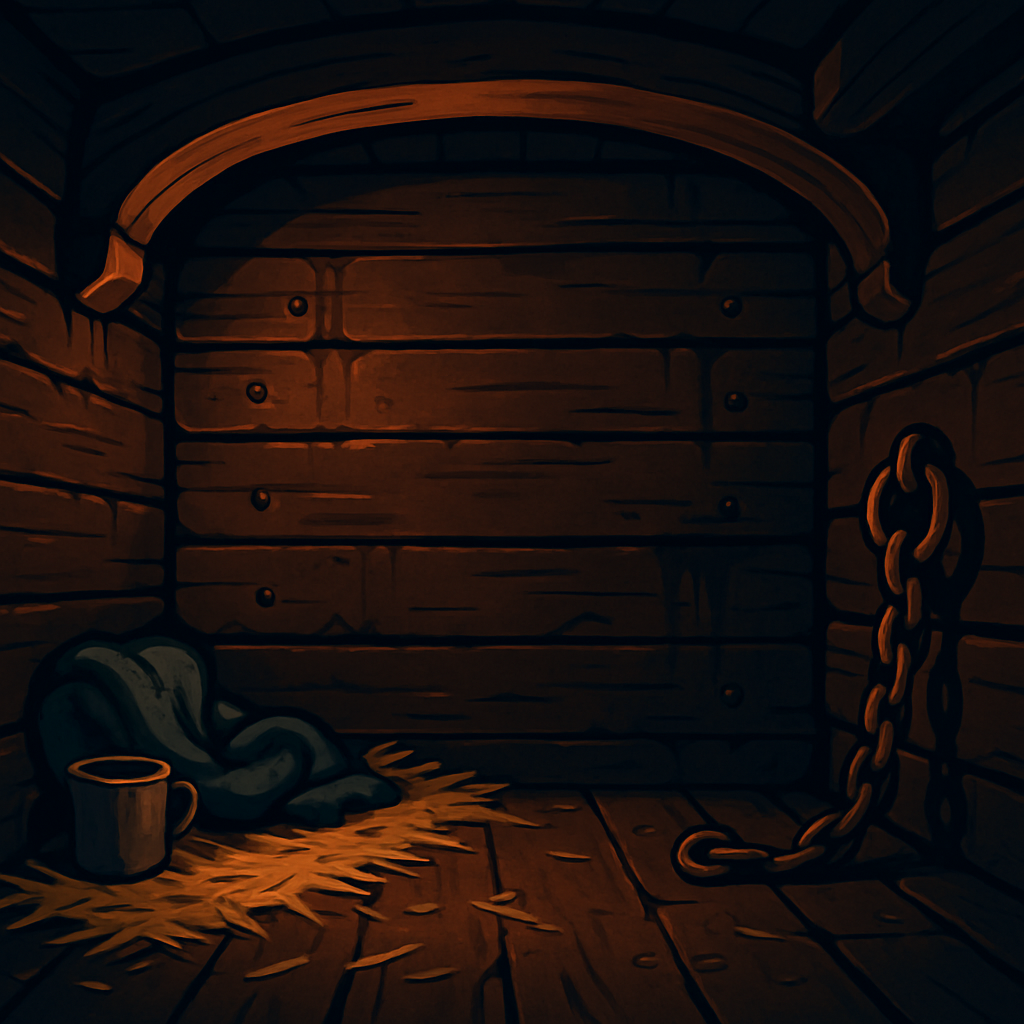
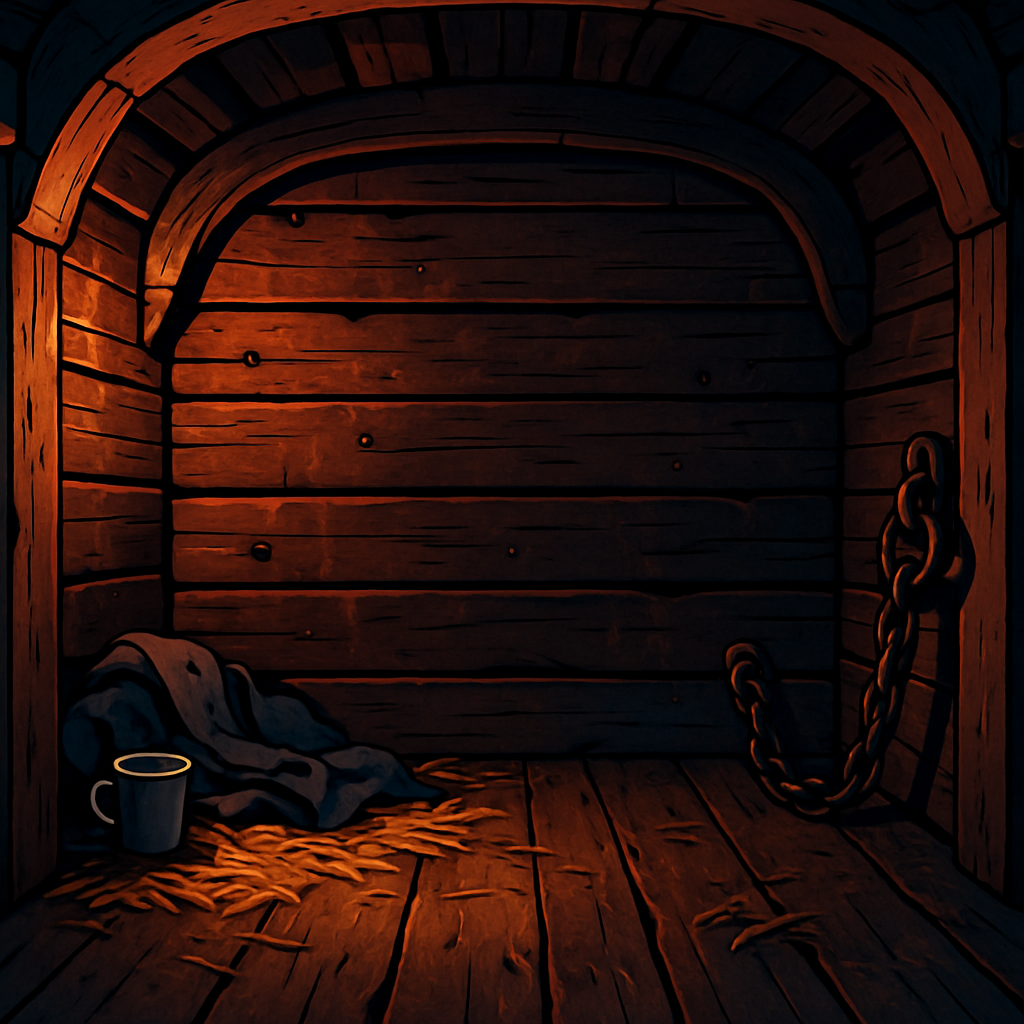
Brig: the room is timber now, and it can ask for you
Two things the last round left open.

THE ROOM ART had a band of brick across the top of the wall, which reads as a
cellar rather than as somewhere below a waterline. Redrawn with "every surface
is ship timber" made load-bearing in the prompt: planks, deck beams, a plank
floor. The reroll also replaced the brass lantern with a pale pewter one, which
instantly looked like a stone lamp in a wooden room, so that was redrawn too --
it is the thing lighting the scene and it has to look like the source of that
light. $0.16.

⚠ And --force quietly recreated bars.png, a 2MB file nothing loads: the iron is
CSS. The entry is deleted from the generator with a note saying why, because the
one time it WAS generated it came back as a horned ogre.

THE ALERT. A captured captain waits on deck for thirty minutes and is then gone
for good, and the only thing that knew was the brig itself -- a feature that can
only tell you something while you are already looking at it. The gun-deck
station carries a dot now when a man is waiting or a chart is ready.

⚠ NOT A NAV BADGE, AND THE DIFFERENCE IS THE BILL. A badge in site chrome that
reads a feature endpoint pays for that feature on every page, for every member,
forever -- see check:chrome and the cost note in CLAUDE.md. This is one extra
column folded into a query the sailing page already runs, owner-gated at the
query, for one person. check:chrome still passes at 23 components.
[…]

diff --git a/src/lib/marketplace/sailing.js b/src/lib/marketplace/sailing.js
@@ -18,7 +18,7 @@ import { getOwnedPieceIds, getOwnedSetIds, grantPiece } from "@/lib/marketplace/
 import { collectibleById } from "@/lib/marketplace/collectibles.js";
 import { avatarImageUrl } from "@/lib/marketplace/avatar-cosmetics.js";
 import { isOwner } from "@/lib/marketplace/owner.js";
-import { captainsOpenTo } from "@/lib/marketplace/captains.js";
+import { captainsOpenTo, OFFER_MINUTES } from "@/lib/marketplace/captains.js";
 import { AMMO, AMMO_LIST, ammoById, COMBAT_TRACKS, shipProfile, foeProfile,
          gunsFor, accuracyFor, rakeFor, hullHitsFor, initBattleState, resolveVolley, sanitizeAims,
          SAILS_MAX, GUN_HP, matchupOdds, hullGrade, foeAims, foePlanks, BATTLE_STATE_V,
@@ -1149,7 +1149,7 @@ function boardView(board) {
 // erase the entire feature for them. Callers that only want `.status`/`.level` can still omit it.
 // `baits` is handed in for the same reason gunDeck and the recipe shelf are: it is a pantry query and this
 // function is synchronous on purpose.
-function decorate(row, chestArt = {}, bonusWaves = 0, raidSetBonus = 0, angling = 0, sky = null, buyerId = null, collections = [], consumableArt = {}, gunDeck = null, pieces = [], hulls = null, marketDay = false, recipeShop = null, baits = [], baitCookable = [], deepFish = false, charts = 0) {
+function decorate(row, chestArt = {}, bonusWaves = 0, raidSetBonus = 0, angling = 0, sky = null, buyerId = null, collections = [], consumableArt = {}, gunDeck = null, pieces = [], hulls = null, marketDay = false, recipeShop = null, baits = [], baitCookable = [], deepFish = false, charts = 0, waiting = 0) {
     const speedLevel = row?.speed_level || 0;
     const fortuneLevel = row?.luck_level || 0; // Fortune is stored in the legacy luck_level column
     const rarityLevel = row?.rarity_level || 0;
@@ -1196,6 +1196,8 @@ function decorate(row, chestArt = {}, bonusWaves = 0, raidSetBonus = 0, angling 
         // exists and what the best one is worth. The brig is where a chart is actually looked at.
         // Owner-gated with the rest of the feature — see captains.js CAPTAINS_PUBLIC.
         chartsReady: charts,
+        // How many men are standing on the deck unpaid, so the station can say so before the clock runs out.
+        captainsWaiting: waiting,
         voyageOptions: VOYAGE_OPTIONS.map((o) => ({
             id: o.id, label: o.label,
             ms: Math.round(voyageDurationMs(speedLevel, level) * o.mult),
@@ -1810,13 +1812,29 @@ export async function getSailingState(buyerId, skyKey = null) {
     // visit to the harbour — so an ungated query here would be a round trip the whole Den pays for a feature
     // only one person can see. See the note on CPU in CLAUDE.md: the lever that matters is queries per
     // request, and the cheapest query is the one that is not made.
-    const chartsHeld = captainsOpenTo(isOwner(buyerId))
-        ? Number((await db.queryOne(
-            `SELECT COUNT(*)::int AS n FROM mkt_ship_chart WHERE buyer_id = $1 AND sailed_at IS NULL`, [buyerId]
-        ).catch(() => null))?.n || 0)
-        : 0;
+    // ── AND WHETHER THE BRIG WANTS YOU ───────────────────────────────────────────────────────────────
+    // ⚠ ONE QUERY FOR BOTH, AND ONLY FOR THE OWNER. A captain waits on deck for thirty minutes and then
+    // he is gone; a chart sits until it is sailed. Neither had any way of saying so outside the brig
+    // itself, which is a feature that can only tell you something while you are already looking at it.
+    //
+    // It is folded into the query that was already here rather than given its own, and it is NOT a nav
+    // badge: a badge in site chrome that reads a feature endpoint bills that feature on every page for
+    // every member forever (see check:chrome and CLAUDE.md). This is one extra column on a query this
+    // page already runs, for one person.
+    const brigRow = captainsOpenTo(isOwner(buyerId))
+        ? await db.queryOne(
+            `SELECT
+                (SELECT COUNT(*)::int FROM mkt_ship_chart WHERE buyer_id = $1 AND sailed_at IS NULL) AS charts,
+                (SELECT COUNT(*)::int FROM mkt_ship_captive
+                  WHERE buyer_id = $1 AND ended_at IS NULL AND status = 'offered'
+                    AND taken_at > NOW() - ($2 || ' minutes')::interval) AS waiting`,
+            [buyerId, String(OFFER_MINUTES)]
+        ).catch(() => null)
+        : null;
+    const chartsHeld = Number(brigRow?.charts) || 0;
+    const captainsWaiting = Number(brigRow?.waiting) || 0;
     return { ...decorate(row, chestArt, seaEff.bonusWaves, raidExtras.bonusRaids, seaEff.angling, null, buyerId, collections, consumableArt, gunDeck, pieces, hulls, (await powerUsesLeft(buyerId, "market_day")) > 0,
-        recipeShop, baits, baitCookable, deepFish, chartsHeld), gold: goldRow?.gold || 0, fleet, sky, sea, stoneShop, owner: isOwner(buyerId),
+        recipeShop, baits, baitCookable, deepFish, chartsHeld, captainsWaiting), gold: goldRow?.gold || 0, fleet, sky, sea, stoneShop, owner: isOwner(buyerId),
         // ── THE PURSE, WHERE YOU CAN SEE IT ──────────────────────────────────────────────────────────
         // Sunflower Jinxx: "it gives boat stat lvl 22, then has dabloons and gold but the dabloons is always
         // 0. I can't see how many I have unless I look in the quartermaster." Always 0 is exactly right: the

diff --git a/src/components/SailingClient.js b/src/components/SailingClient.js
@@ -1208,6 +1208,16 @@ export default function SailingClient({ initial, hero, pet, captain }) {
                         {/* eslint-disable-next-line @next/next/no-img-element */}
                         <img className="sail-station-art" src={`/images/sailing/tracks/${art}.png`} alt="" draggable="false" />
                         <em>{label}</em>
+                        {/* ── THE BRIG ASKS FOR YOU ────────────────────────────────────────────────
+                            A captured captain waits on deck for thirty minutes and is then gone for
+                            good, and the only thing that knew was the brig itself — a feature that can
+                            only tell you something while you are already looking at it. The count is
+                            owner-gated upstream and rides the query the page already runs, so for
+                            everybody else this is exactly the row it was. */}
+                        {k === "guns" && (state.captainsWaiting > 0 || state.chartsReady > 0) ? (
+                            <i className="sail-station-dot" aria-label={state.captainsWaiting > 0
+                                ? `${state.captainsWaiting} in irons on deck` : "A chart is ready"} />
+                        ) : null}
                     </button>
                 ))}
             </div>

diff --git a/src/app/globals.css b/src/app/globals.css
@@ -12044,6 +12044,14 @@ body:has(.dm-screen) main.content { padding-bottom: 0; }
    and only the selected tab had any background, so the other three read as loose text rather than controls.
    Fixed by shape, not by squeezing: one-word labels stacked under a glyph, so every tab has the same footprint
    whatever the word is and nothing can wrap. Four fit at 360px with room to spare. */
+/* The brig's one call for attention: a captain on deck has a clock on him, and the only thing that
+   knew was the brig. Positioned on the station rather than in site chrome on purpose — a nav badge
+   that reads a feature endpoint bills that feature on every page for every member. */
+.sail-station-dot { position: absolute; top: 5px; right: 7px; width: 9px; height: 9px; border-radius: 50%;
+    background: #ffbe57; box-shadow: 0 0 0 2px rgba(10,8,6,.85), 0 0 9px rgba(255,190,87,.9);
+    animation: sailStationDot 1.9s ease-in-out infinite; }
+@keyframes sailStationDot { 0%,100% { opacity: 1; transform: scale(1); } 55% { opacity: .55; transform: scale(.82); } }
+.sail-stations button { position: relative; }
 .sail-stations { display: flex; gap: 6px; padding: 5px; margin: 12px 0 10px; border-radius: 14px;
     background: rgba(0,0,0,0.3); border: 1px solid rgba(255,255,255,0.08); }
 .sail-stations button { flex: 1 1 0; min-width: 0; display: flex; flex-direction: column; align-items: center;
